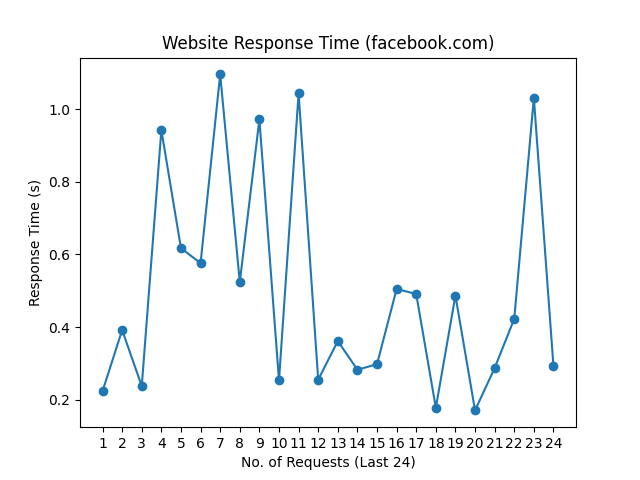
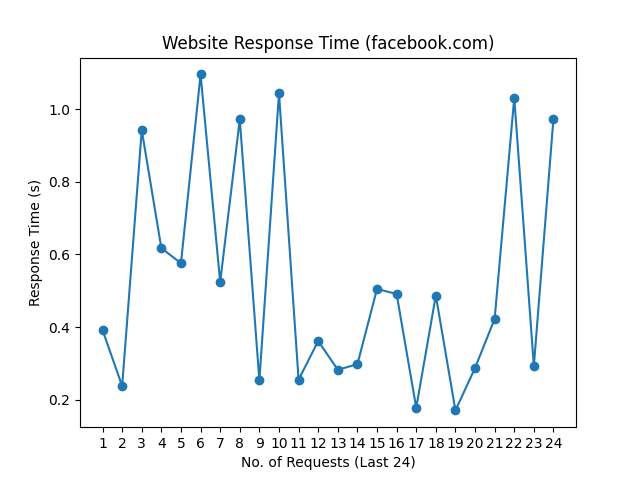
update README.md, history and graph

Changed region(s): [[0.1562, 0.125, 0.875, 0.875]]

diff --git a/README.md b/README.md
@@ -1,10 +1,10 @@
 # Web Monitoring
 
-Last Checked: 01/06/2024 08:17
+Last Checked: 02/06/2024 08:18
 
 | Website | Response Time (s) | Status | Avg Uptime (%) |
 |---------|-------------------|--------|----------------|
 | www.thiswebsiteisdown.net | 0 <br> <img src="graph/thiswebsiteisdown.net.png" alt="Graph" width="200" height="200">  | ❌ Down | 0.00 |
-| www.netflix.com | 0.481168 <br> <img src="graph/netflix.com.png" alt="Graph" width="200" height="200">  | ✅ Up | 100.00 |
-| www.google.com | 0.086630 <br> <img src="graph/google.com.png" alt="Graph" width="200" height="200">  | ✅ Up | 100.00 |
-| www.facebook.com | 0.293283 <br> <img src="graph/facebook.com.png" alt="Graph" width="200" height="200">  | ✅ Up | 100.00 |
+| www.netflix.com | 1.182902 <br> <img src="graph/netflix.com.png" alt="Graph" width="200" height="200">  | ✅ Up | 100.00 |
+| www.google.com | 0.083633 <br> <img src="graph/google.com.png" alt="Graph" width="200" height="200">  | ✅ Up | 100.00 |
+| www.facebook.com | 0.973460 <br> <img src="graph/facebook.com.png" alt="Graph" width="200" height="200">  | ✅ Up | 100.00 |
